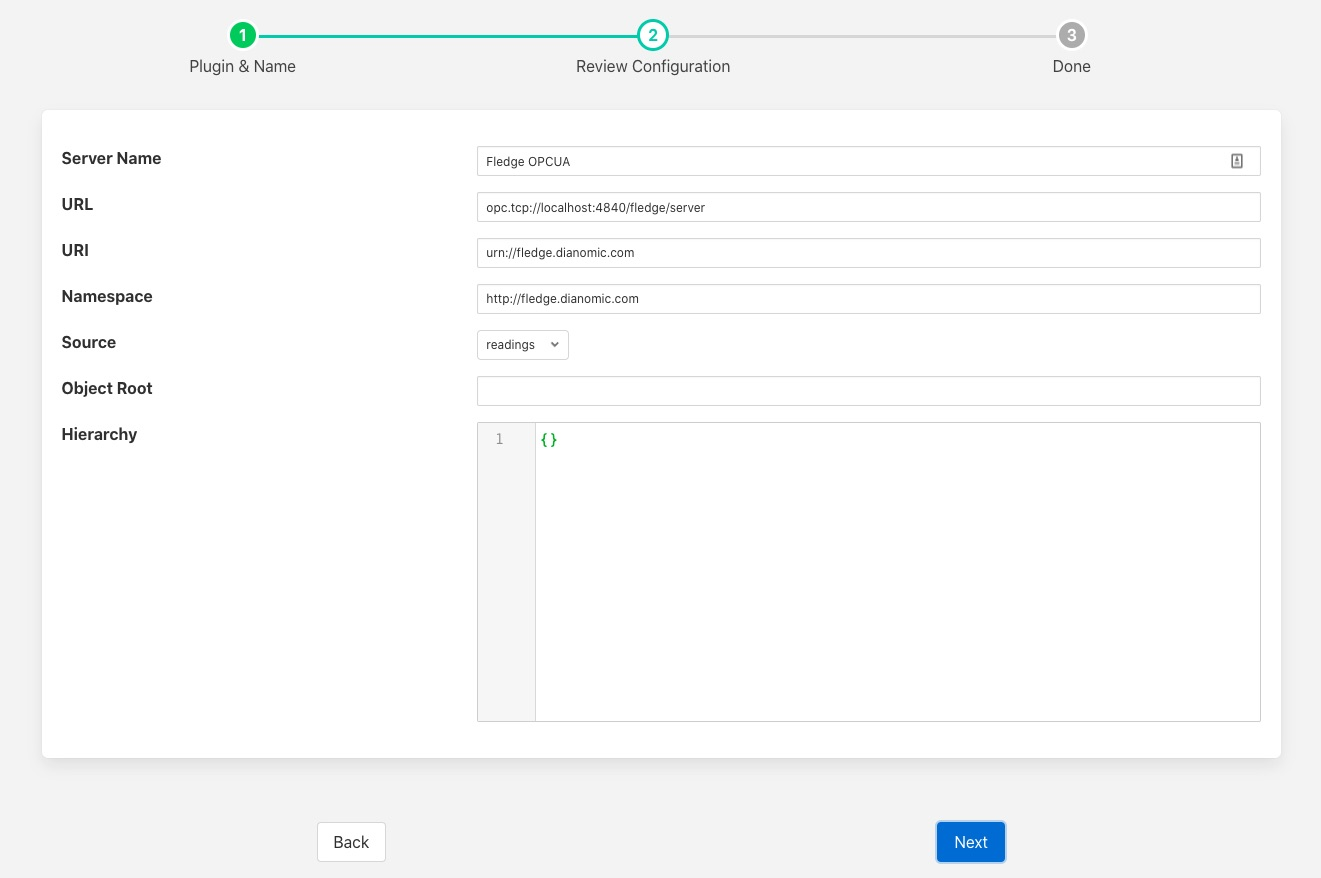
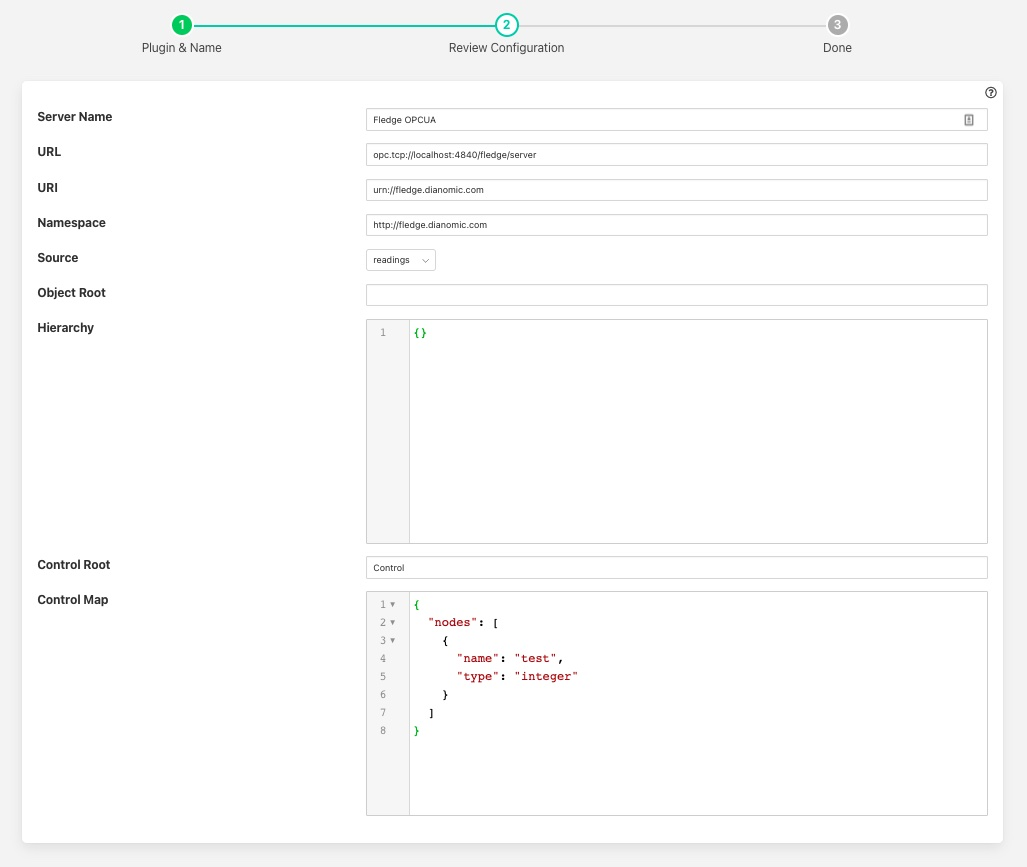
FOGL-6200 Update documentation and add control map options

diff --git a/opcua.cpp b/opcua.cpp
@@ -86,6 +86,10 @@ void OPCUAServer::configure(const ConfigCategory *conf)
 			}
 		}
 	}
+	if (conf->itemExists("controlRoot"))
+		m_controlRoot = conf->getValue("controlRoot");
+	else
+		m_log->error("Missing URL in configuration");
 	if (conf->itemExists("controlMap"))
 	{
 		string controlMap = conf->getValue("controlMap");
@@ -566,7 +570,7 @@ void OPCUAServer::createControlNodes()
 	m_subscription =  m_server->CreateSubscription(100, m_subscriptionClient);
 	Node	objects = m_server->GetObjectsNode();
 	NodeId nid(99, m_idx);
-	QualifiedName qn("Control", m_idx);
+	QualifiedName qn(m_controlRoot, m_idx);
 	Node	parent = objects.AddObject(nid, qn);
 	for (auto &n : m_control)
 	{

diff --git a/plugin.cpp b/plugin.cpp
@@ -96,6 +96,13 @@ static const char *default_config = QUOTE({
 				"order" : "7",
 				"displayName" : "Hierarchy"
 			},
+			"controlRoot" : {
+				"description" : "The OPC UA Root node to use for control items for this service",
+				"type" : "string",
+				"default" : "Control",
+				"order" : "8",
+				"displayName" : "Control Root"
+			},
 			"controlMap" : {
 				"description" : "The control map to use",
 				"type" : "JSON",

diff --git a/include/opcua.h b/include/opcua.h
@@ -106,6 +106,7 @@ class OPCUAServer {
 		OpcUa::Subscription::SharedPtr		m_subscription;
 		SubClient				m_subscriptionClient;
 		std::vector<ControlNode>		m_control;
+		std::string				m_controlRoot;
 };
 
 #endif

diff --git a/docs/index.rst b/docs/index.rst
@@ -36,6 +36,8 @@ This second page allows for the setting of the configuration within the OPCUA se
 
   - **Hierarchy**: This allows you to define a hierarchy for the OPCUA objects that is based on the meta data within the readings. See below for the definition of hierarchies.
 
+  - **Control Root**: The root node under whuch all control nodes will be created in the OPCUA server.
+
   - **Control Map**: This is defined if you wish your OPC/UA server to allow write to specific nodes to cause control inputs into the Fledge system. The definition of the control map is shown below.
 
 
